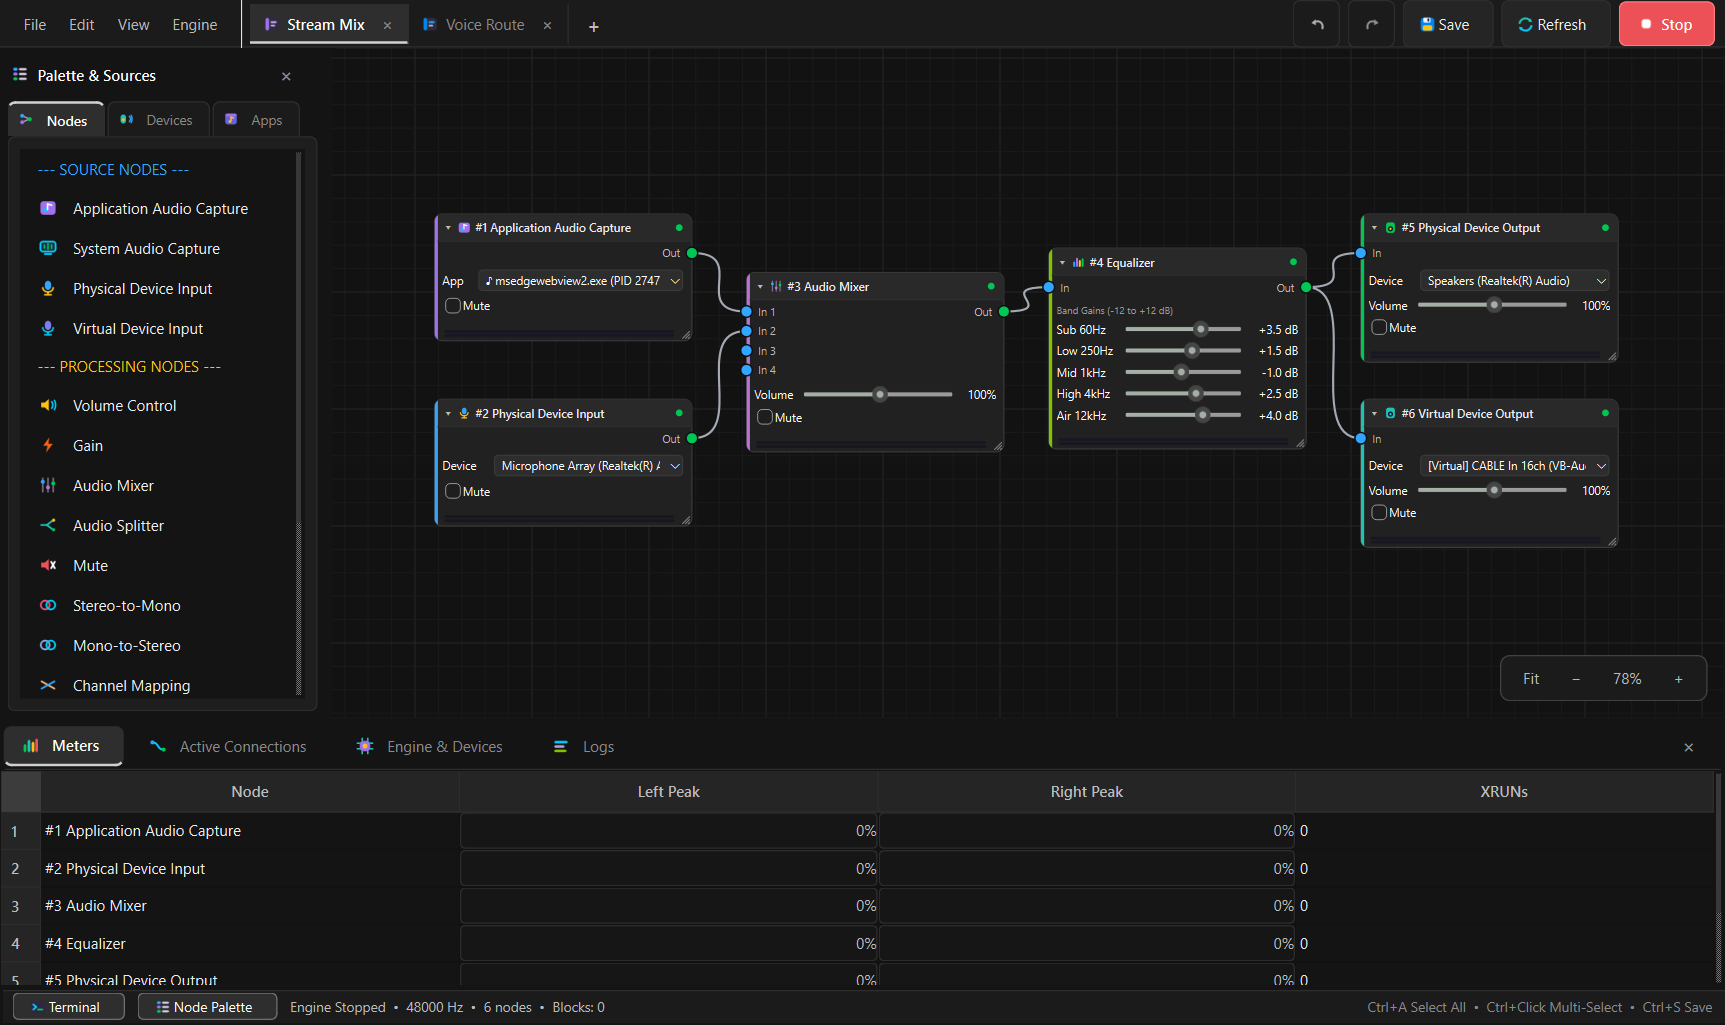
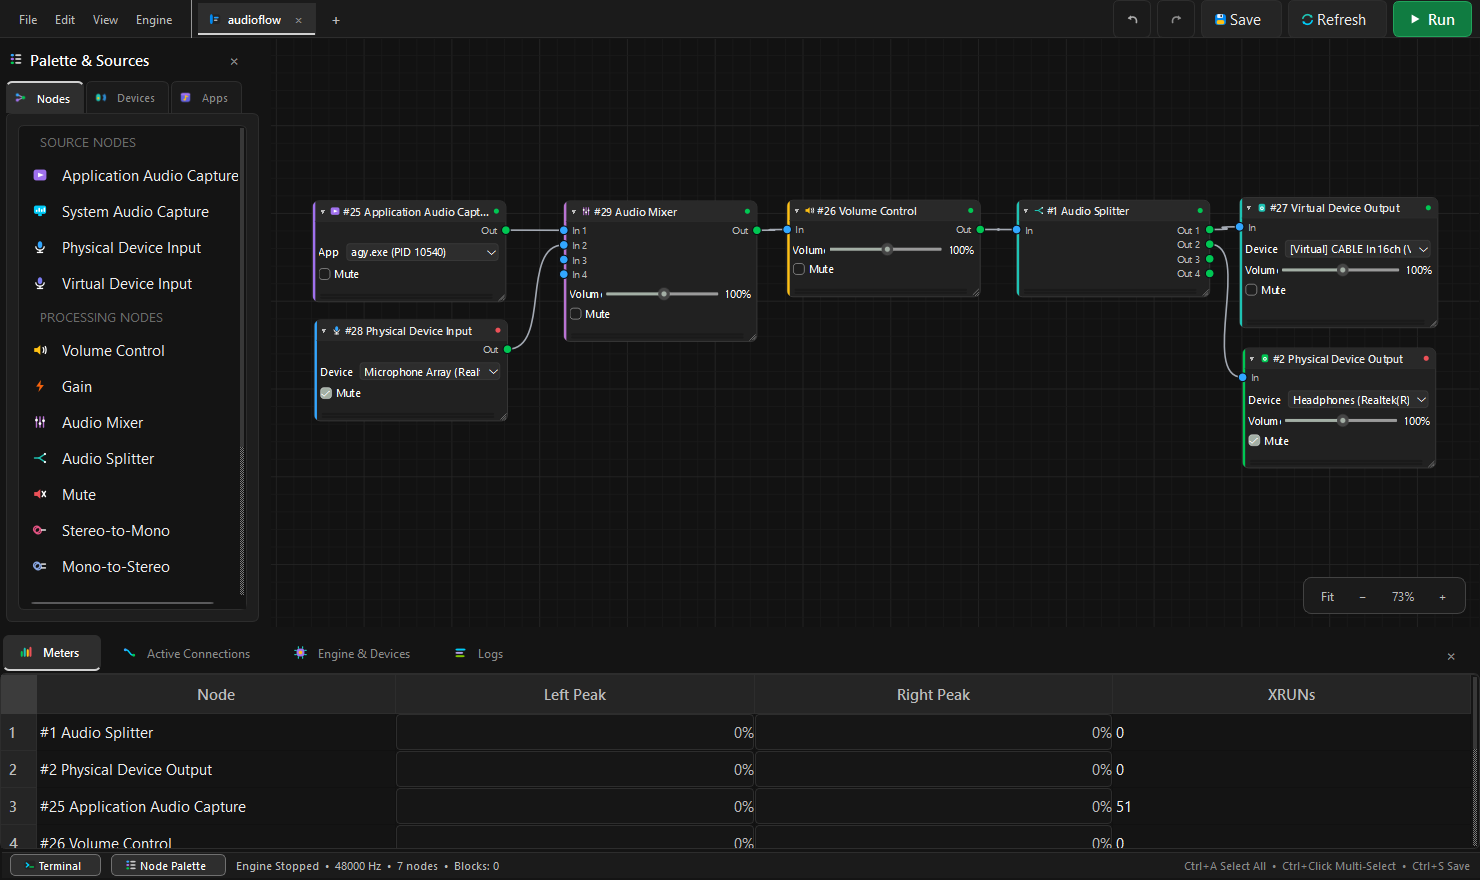
docs: add v1 release links and update screenshot with refined UI

diff --git a/README.md b/README.md
@@ -14,6 +14,7 @@
     <img src="https://img.shields.io/badge/Engine-C%2B%2B20%20WASAPI-00599C?style=for-the-badge&logo=cplusplus&logoColor=white" alt="C++20 WASAPI" />
     <img src="https://img.shields.io/badge/Build-PyInstaller-1B1F27?style=for-the-badge" alt="PyInstaller" />
     <img src="https://img.shields.io/badge/License-MIT-F59E0B?style=for-the-badge" alt="MIT License" />
+    <a href="https://github.com/Jit-Roy/Phonoryx/releases/tag/v1"><img src="https://img.shields.io/badge/Release-v1-7719AA?style=for-the-badge&logo=github&logoColor=white" alt="Release v1" /></a>
   </p>
 
   <br />
@@ -22,6 +23,15 @@
 </div>
 
 ---
+
+## Download (Standalone Release)
+
+Ready-to-run portable standalone build for Windows (no Python or development environment setup required):
+
+- 📦 **Latest Release:** [**Phonoryx v1**](https://github.com/Jit-Roy/Phonoryx/releases/tag/v1)
+- 💾 **Direct Download:** [**Phonoryx-v1-windows.zip**](https://github.com/Jit-Roy/Phonoryx/releases/download/v1/Phonoryx-v1-windows.zip) (~45 MB)
+
+Simply extract the zip archive and run `Phonoryx.exe`.
 
 ## Requirements
 
